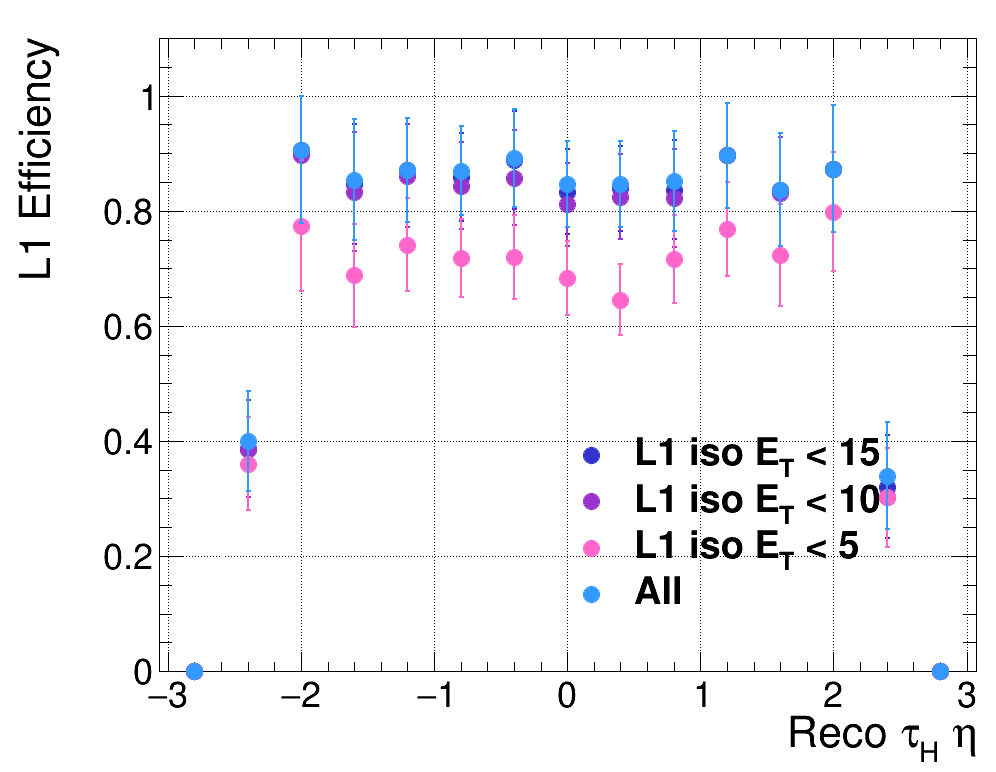
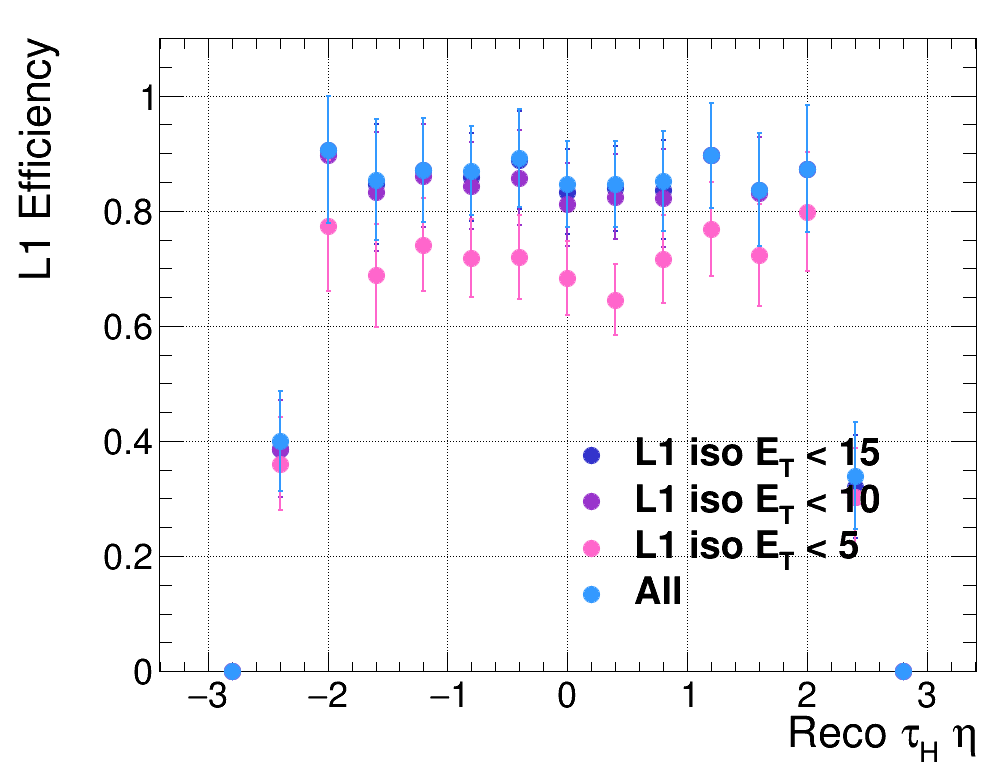
Efficiencies and validation for hadronic taus

diff --git a/validationPlots/runValidationPlots.C b/validationPlots/runValidationPlots.C
@@ -1,0 +1,20 @@
+#include "../baseCodeForPlots/comparisonPlots.C"
+
+void runValidationPlots()
+{
+  gROOT->ProcessLine(".L ../baseCodeForPlots/comparisonPlots.C");
+ 
+  TString treePath = "l1NtupleProducer/Stage2/efficiencyTree";
+  TString inputDirectory  = "/scratch/skkwan/Run2Ntuplizer/2020-Apr-27_Run2_ggHtautau.root";
+  TString outputDirectory = "comparisonPlots/test_";
+
+  TString sigCut = "recoTauPt>10 && genTauPt>10 && genTauDM>9 && l1TauPt>0";
+  TString bkgCut = "genTauPt<5";
+
+  comparisonPlots("l1TauPt", sigCut, bkgCut, treePath, inputDirectory, outputDirectory, "l1TauPt", 60, 0, 120);
+  comparisonPlots("l1TauEta", sigCut, bkgCut, treePath, inputDirectory, outputDirectory, "l1TauEta", 60, -3, 3);
+  comparisonPlots("l1TauPhi", sigCut, bkgCut, treePath, inputDirectory, outputDirectory, "l1TauPhi", 60, -4, 4);
+  // l1IsoEt does not have the tau included in the sum                                                                                                               
+  comparisonPlots("l1IsoEt", sigCut, bkgCut, treePath, inputDirectory, outputDirectory, "l1IsoEt", 40, 0, 80);
+
+}

diff --git a/efficiencyPlots/efficiencyHist.cpp b/efficiencyPlots/efficiencyHist.cpp
@@ -92,7 +92,6 @@ void plotNEfficiencies(std::vector<TGraphAsymmErrors*> graphs,
   histDummy->GetXaxis()->SetTitleSize(0.06); // default is 0.03                                                                    
   /* Set y-axis limits */
   histDummy->GetYaxis()->SetRangeUser(0.0, 1.1);
-  histDummy->GetXaxis()->SetRangeUser(-3.0, 3.0);
 
   /* Customize legend */
   for (itGraph = graphs.begin(), itLabel = labels.begin();
